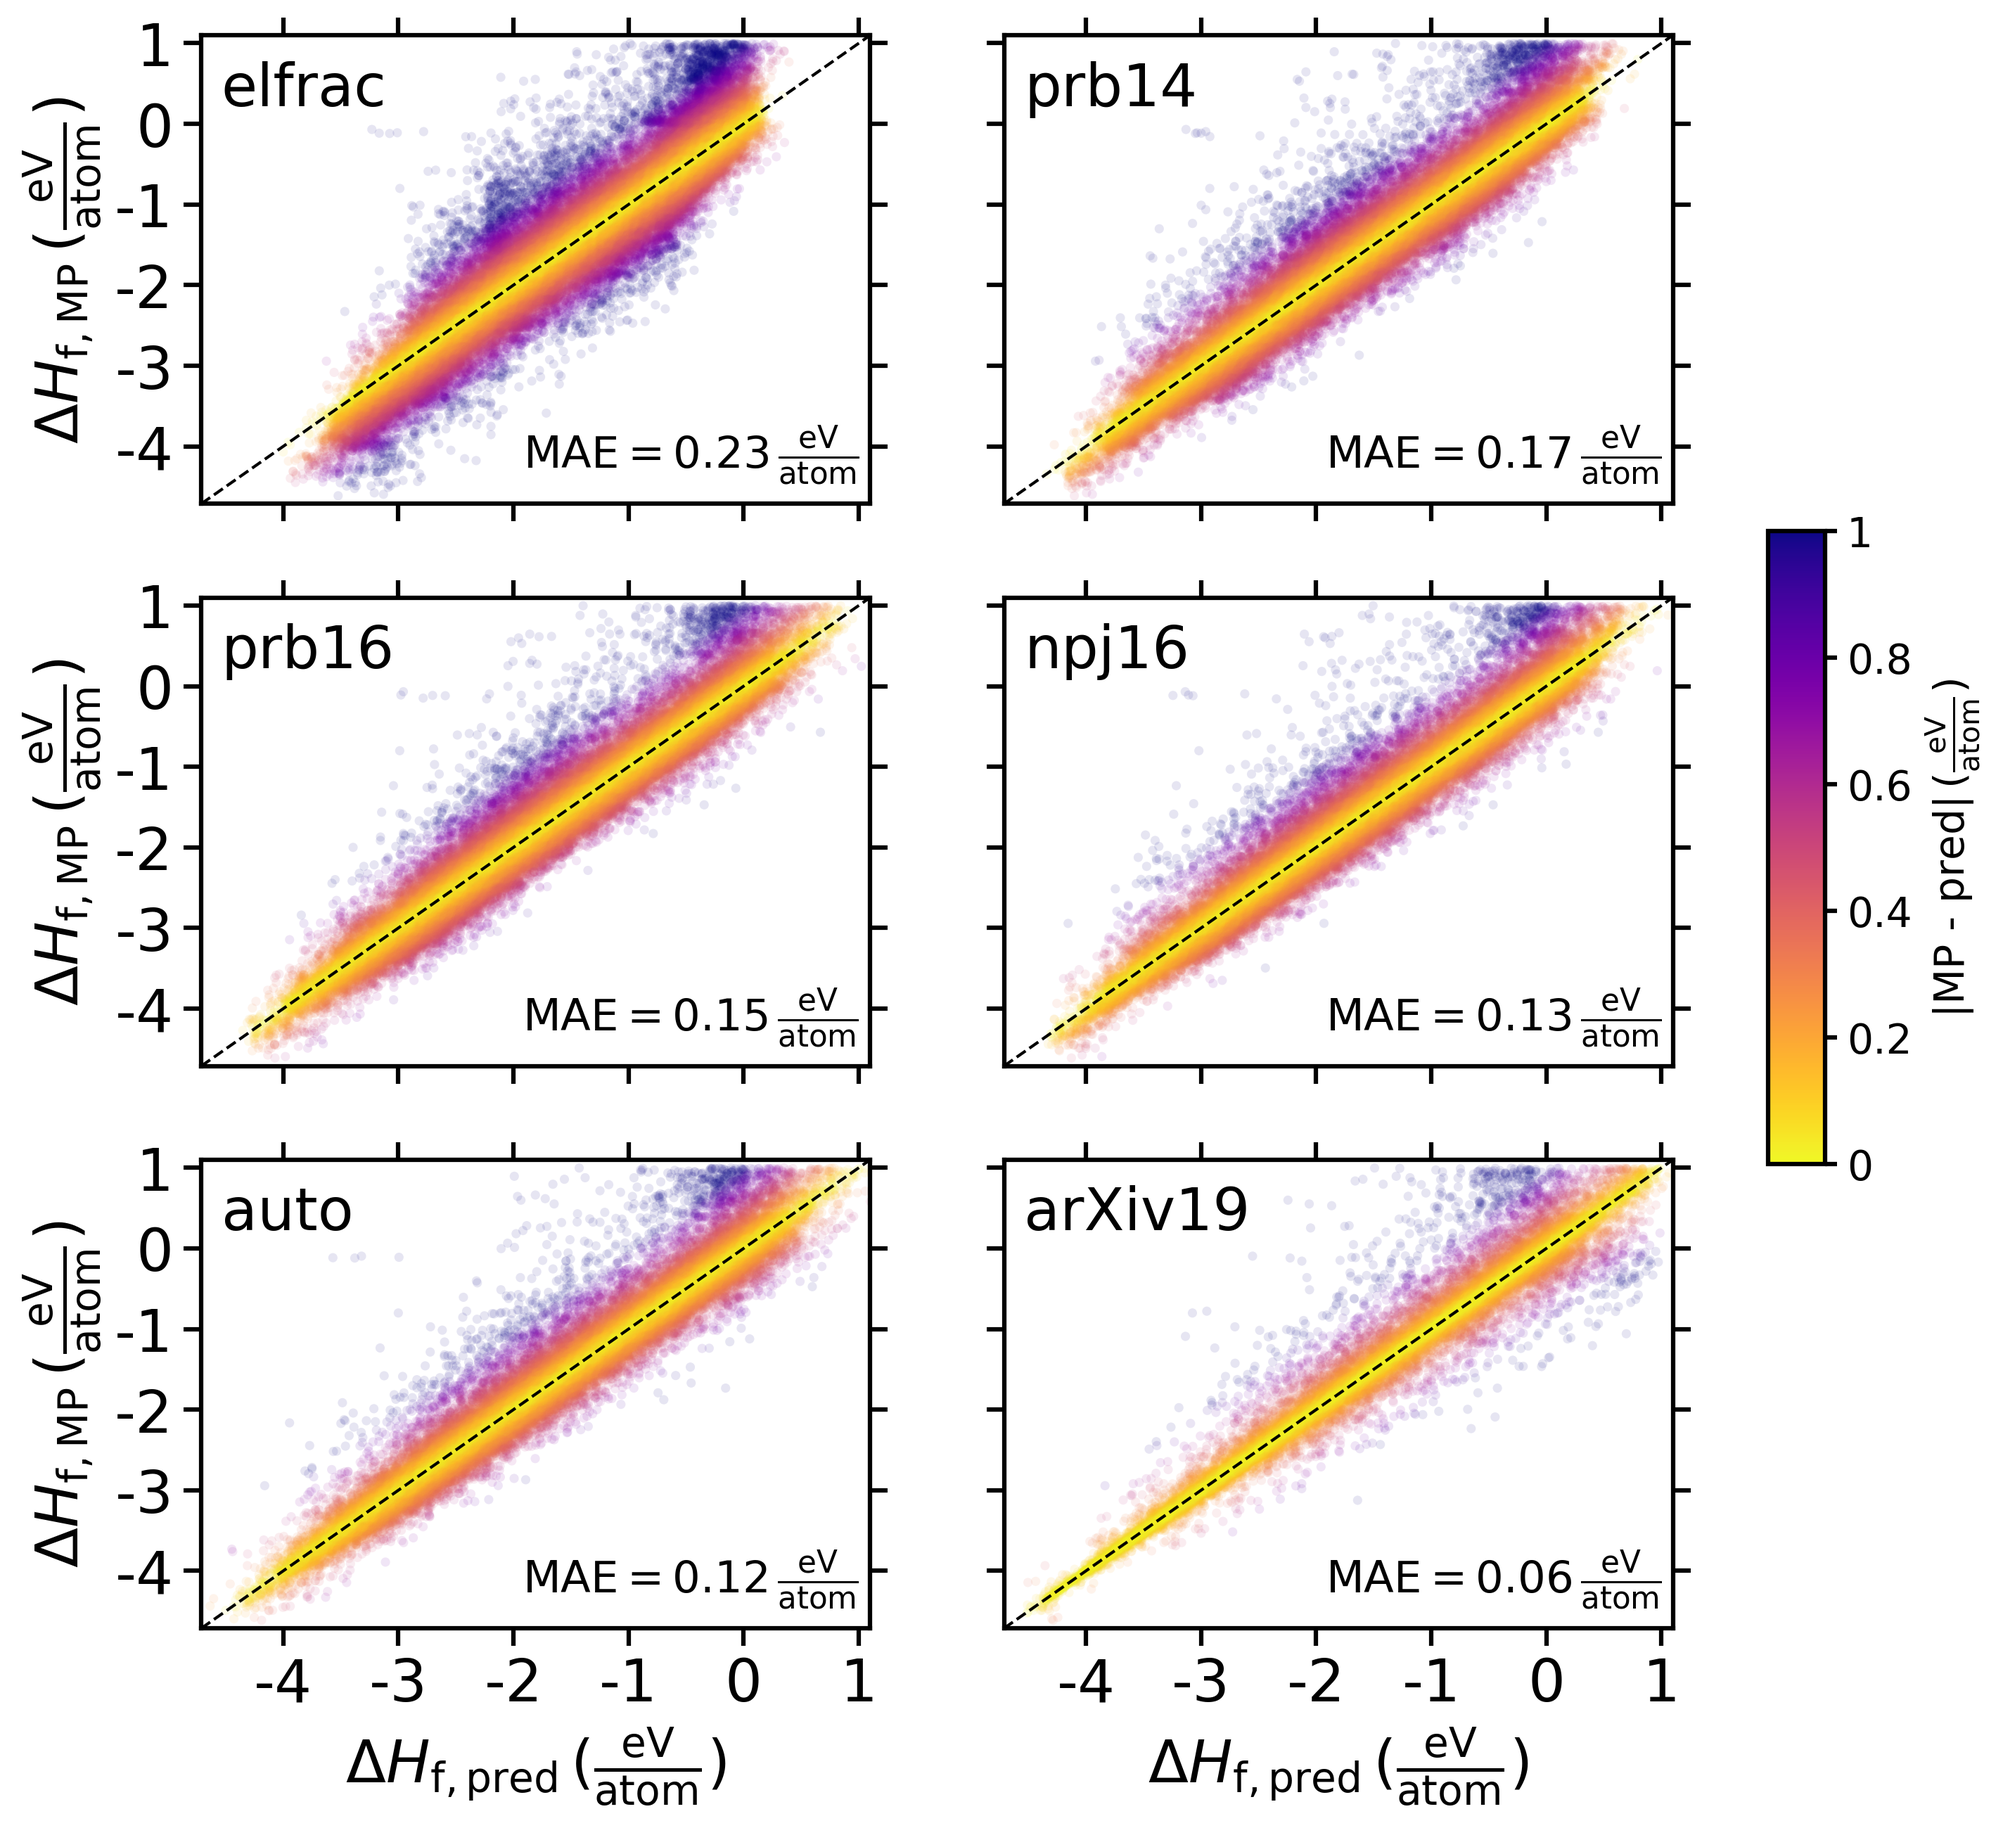
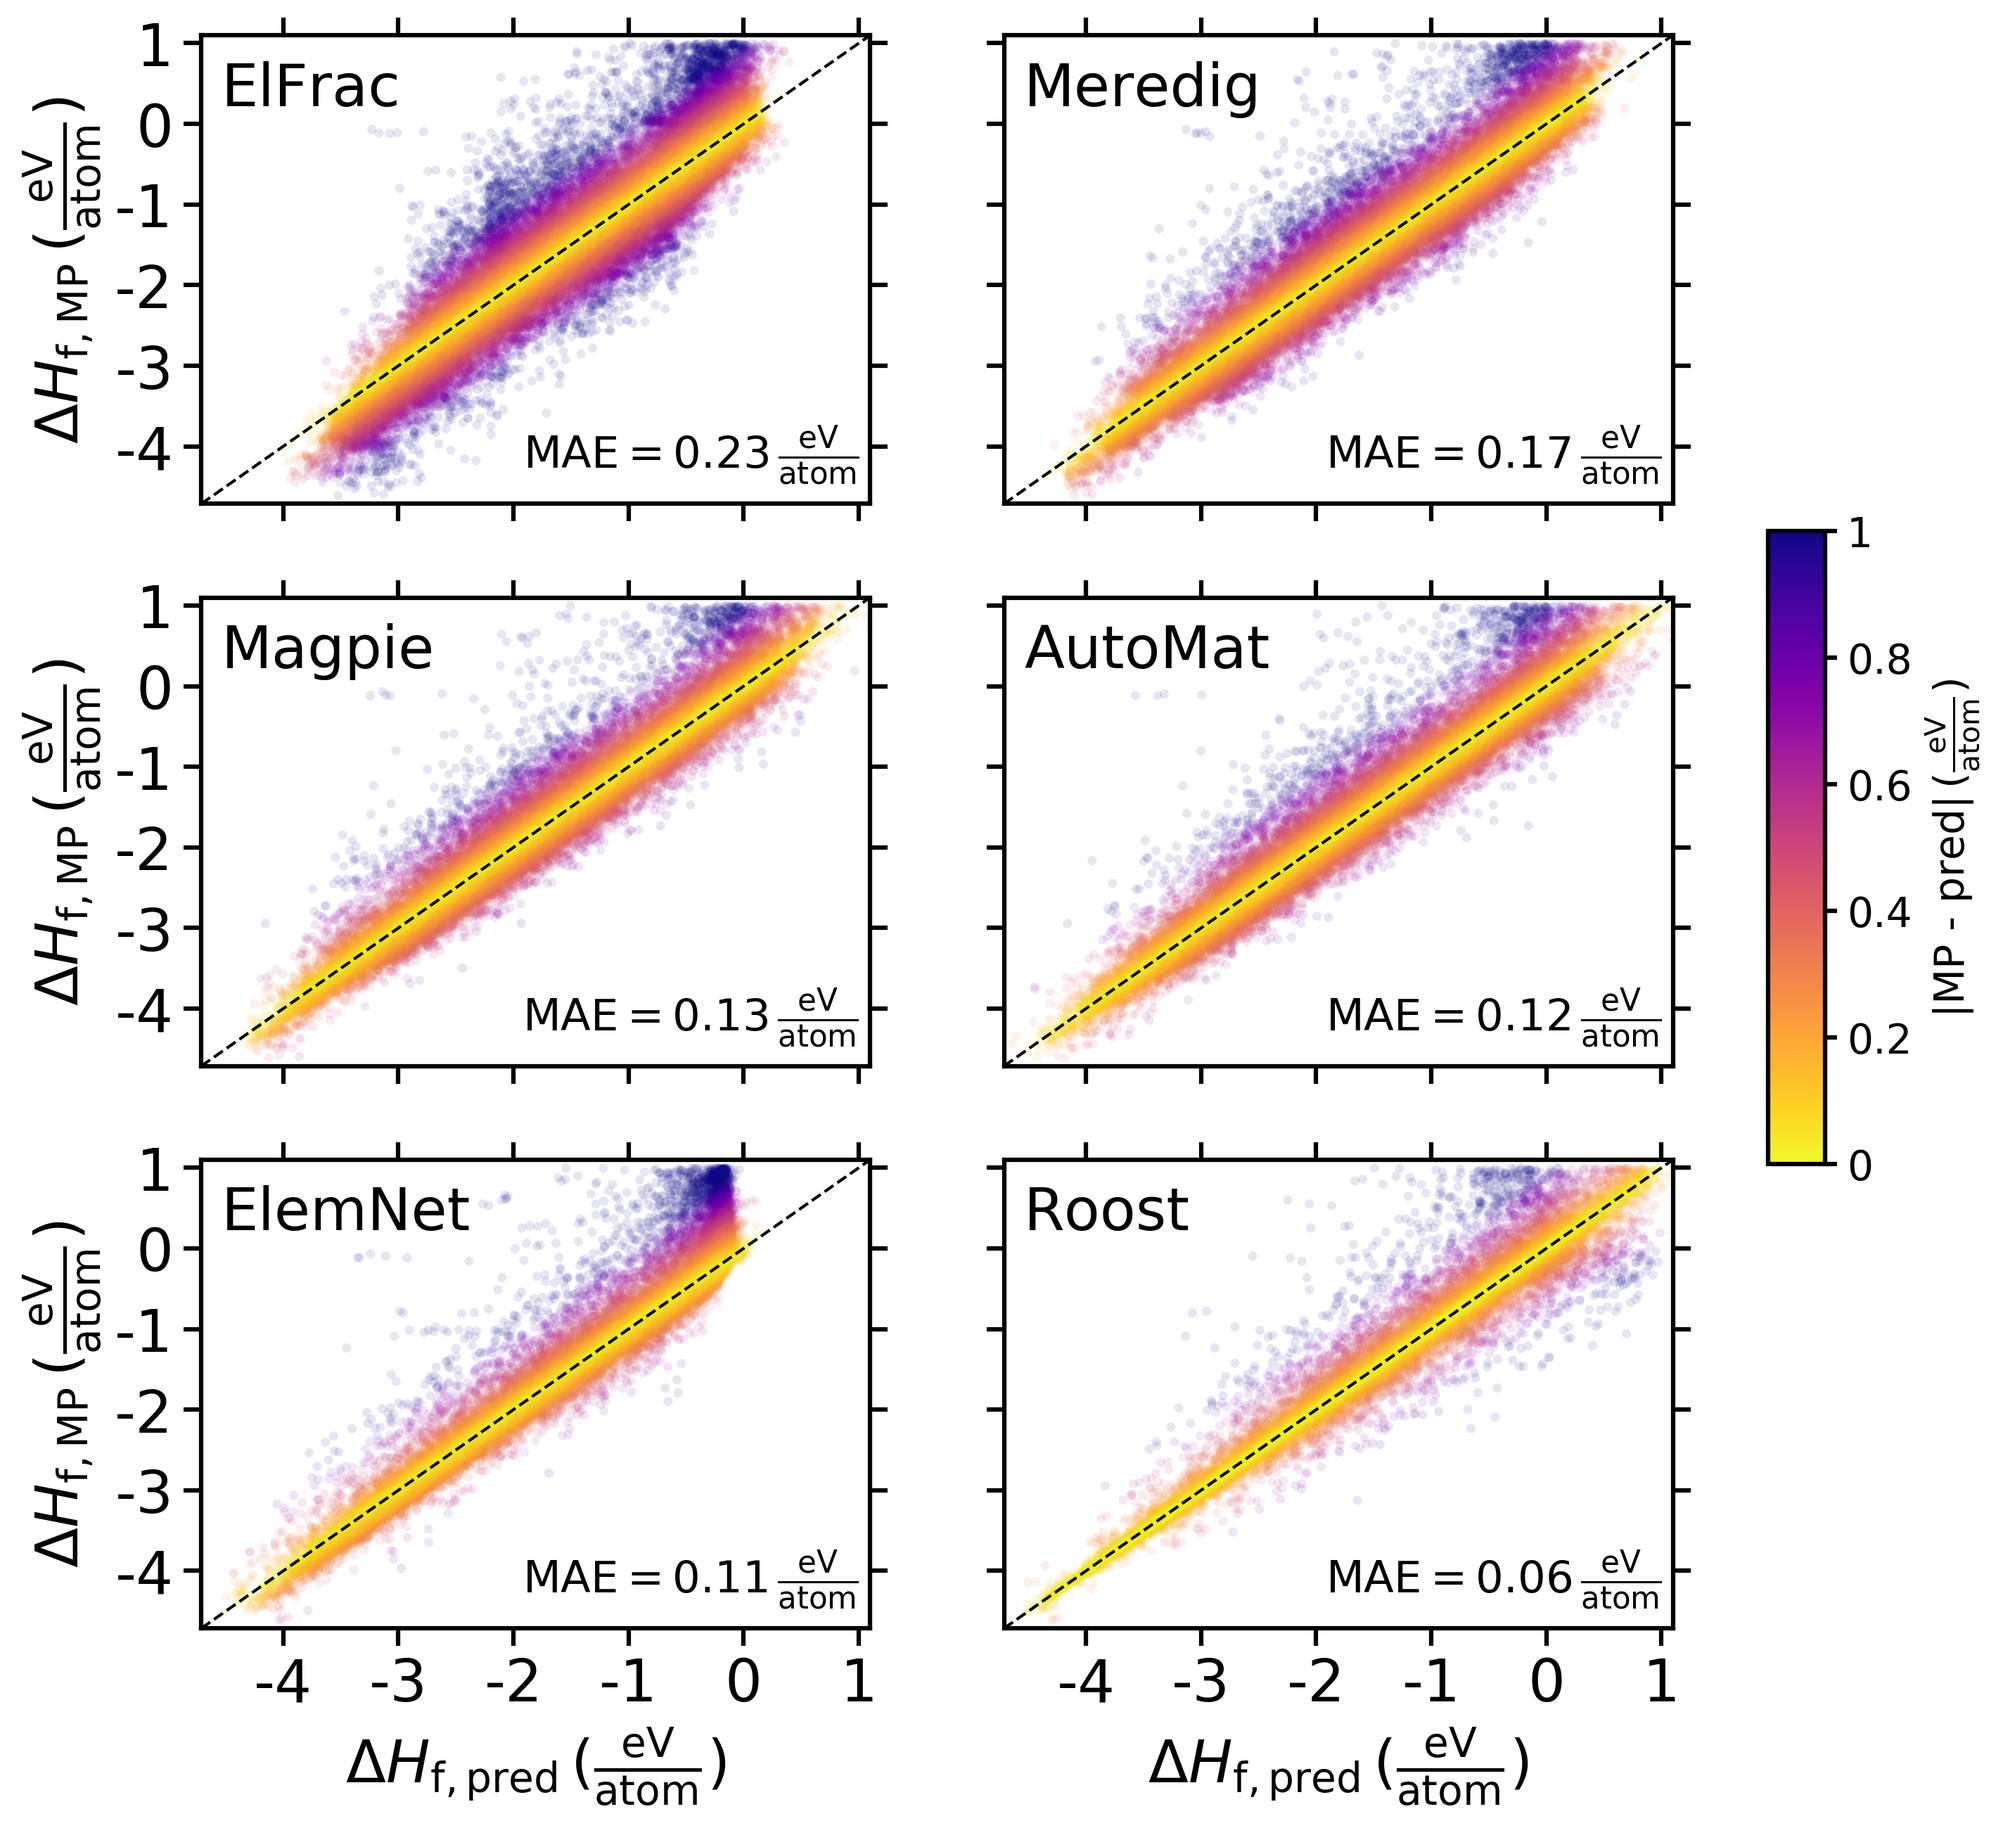
revised figures

diff --git a/mlstabilitytest/plot.py b/mlstabilitytest/plot.py
@@ -19,7 +19,10 @@ this_dir, this_filename = os.path.split(__file__)
 FIG_DIR = os.path.join(this_dir, 'figures')
 
 def main():
-    set_rc_params()    
+    set_rc_params() 
+    
+    regen_all_figures = False
+    
     remake_fig1 = False
     remake_fig2 = False
     remake_fig3 = False
@@ -33,6 +36,21 @@ def main():
     remake_figS3 = False
     remake_figS4 = False
     remake_tableS1 = False
+    
+    if regen_all_figures:
+        remake_fig1 = True
+        remake_fig2 = True
+        remake_fig3 = True
+        remake_fig4 = True
+        remake_fig5 = True
+        remake_table1 = True
+        remake_fig6 = True
+        remake_fig7 = True
+        remake_figS1 = True
+        remake_figS2 = True
+        remake_figS3 = True
+        remake_figS4 = True
+        remake_tableS1 = True        
     
     if remake_fig1:
         make_fig1()
@@ -781,17 +799,17 @@ def make_fig4(training_prop):
     figsize=(9,10)
     fig = plt.figure(figsize=figsize)
     ax1 = plt.subplot(321)
-    ax1 = ax_hist_classification(training_prop, 'elfrac', False, False, 'center left', show_yticks=True)
+    ax1 = ax_hist_classification(training_prop, 'ElFrac', False, False, 'center left', show_yticks=True)
     ax2 = plt.subplot(322)
-    ax2 = ax_hist_classification(training_prop, 'prb14', False, False)
+    ax2 = ax_hist_classification(training_prop, 'Meredig', False, False)
     ax3 = plt.subplot(323)
-    ax3 = ax_hist_classification(training_prop, 'prb16', False, True,  show_yticks=True)
+    ax3 = ax_hist_classification(training_prop, 'Magpie', False, True,  show_yticks=True)
     ax4 = plt.subplot(324)
-    ax4 = ax_hist_classification(training_prop, 'npj16', False, False)
+    ax4 = ax_hist_classification(training_prop, 'AutoMat', False, False)
     ax5 = plt.subplot(325)
-    ax6 = ax_hist_classification(training_prop, 'auto', True, False, show_yticks=True)
+    ax6 = ax_hist_classification(training_prop, 'ElemNet', True, False, show_yticks=True)
     ax6 = plt.subplot(326)
-    ax6 = ax_hist_classification(training_prop, 'arXiv19', True, False)
+    ax6 = ax_hist_classification(training_prop, 'Roost', True, False)
     
     plt.show()
     
